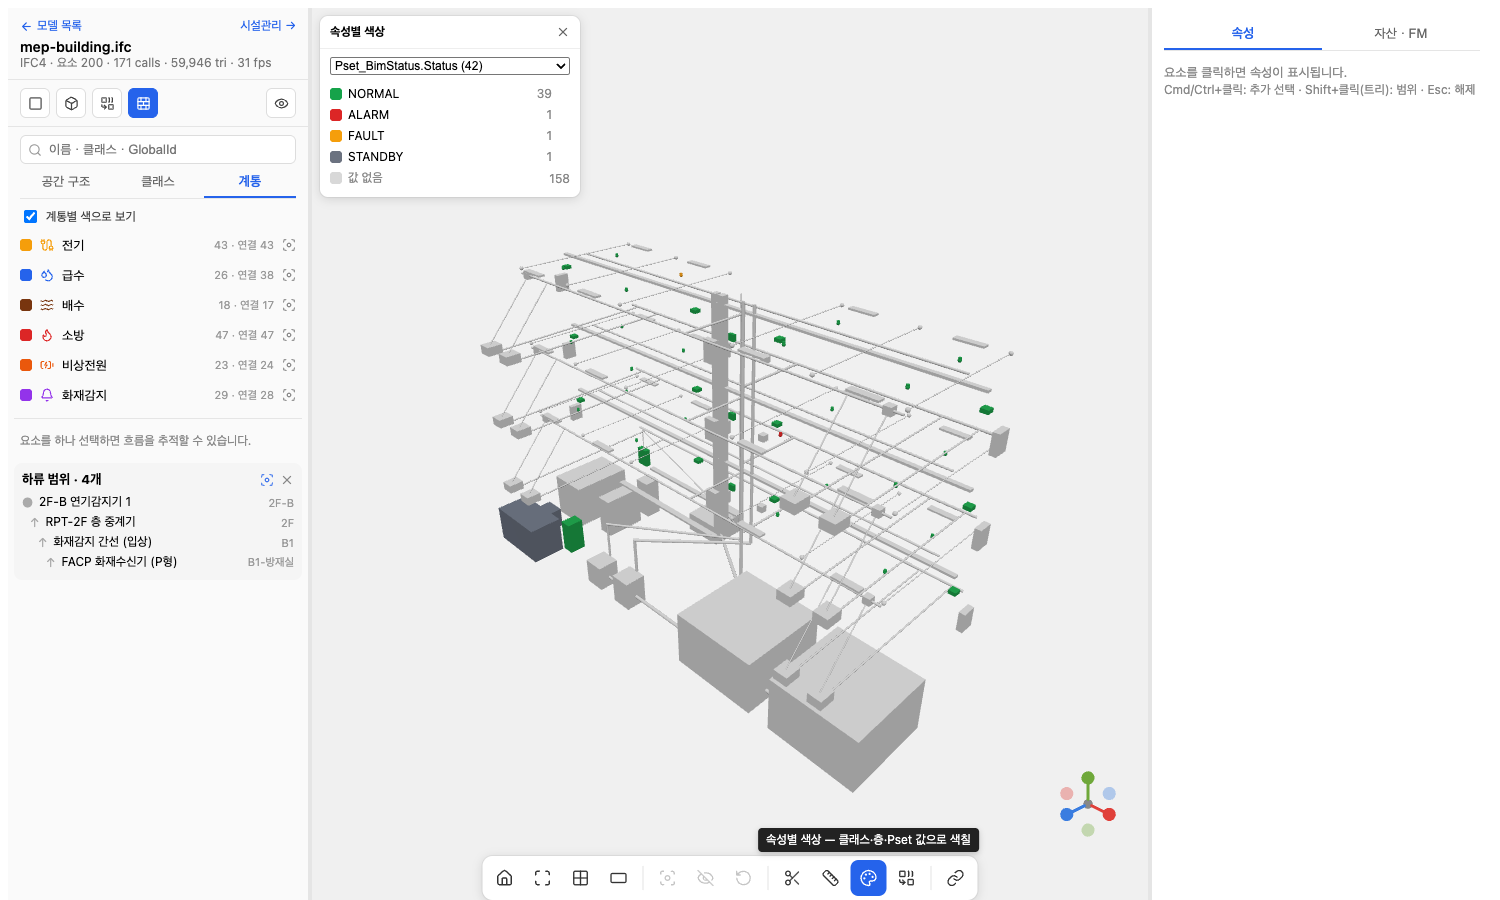
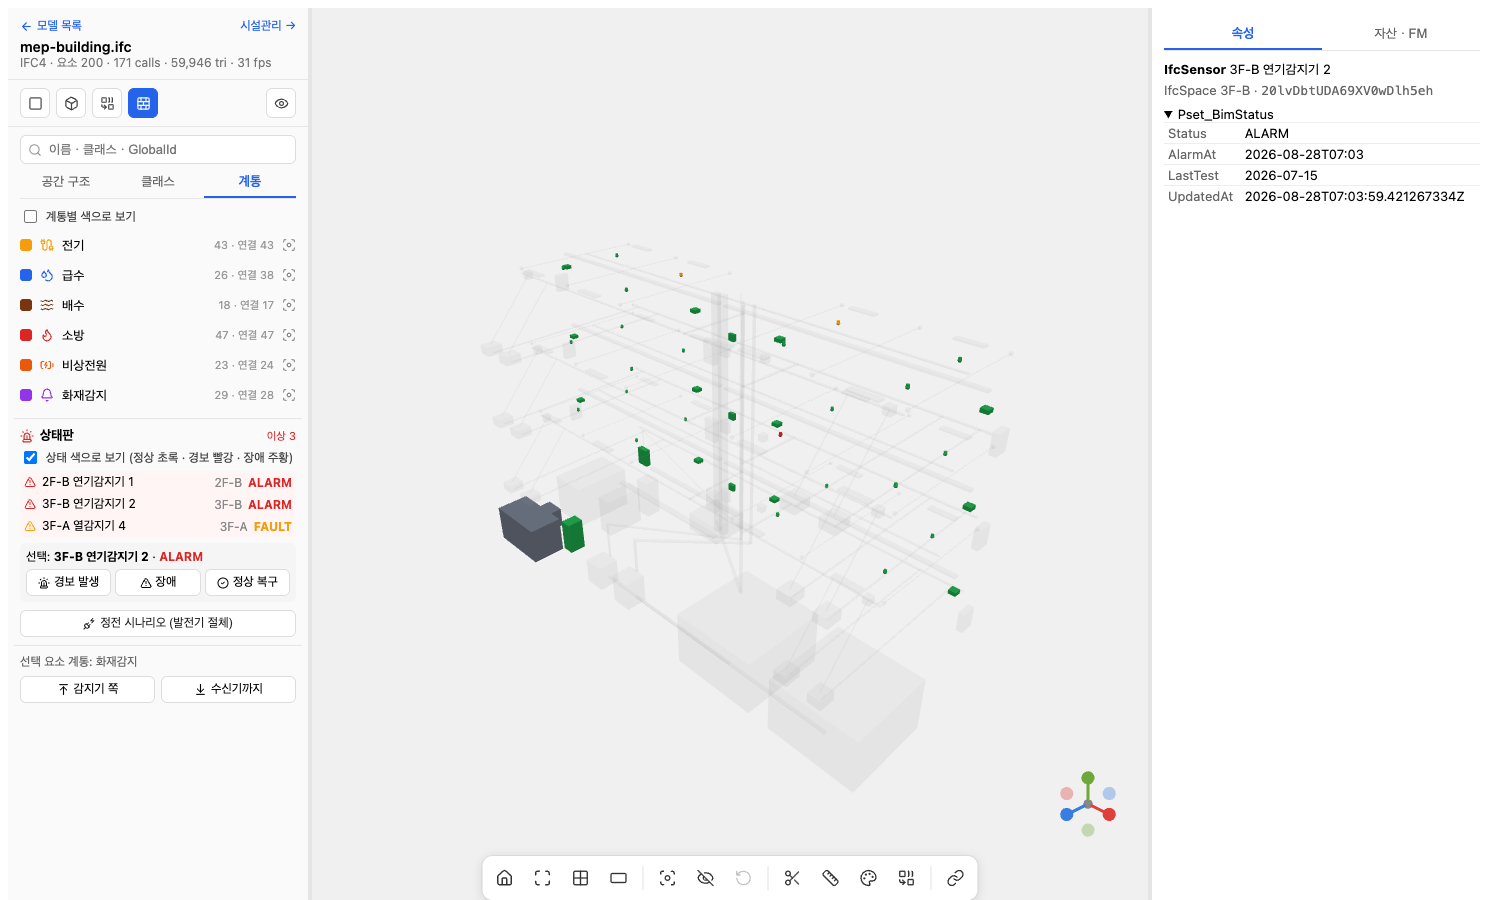
M6 상태·정전: StatusController(Pset_BimStatus jsonb 병합, 수신기 ActiveAlarms/Faults 집계, 자산이면 작업지시 자동, /power 정전 시나리오 = MDB 하류 ∖ EMDB 하류), 뷰어 상태판(이상 목록·상태 색·경보/장애/복구·정전 토글), 문서

diff --git a/web/src/viewer/SystemPanel.tsx b/web/src/viewer/SystemPanel.tsx
@@ -1,6 +1,6 @@
 import { useEffect, useMemo, useState } from 'react'
-import { ArrowDownToLine, ArrowUpToLine, BatteryCharging, Bell, Cable, Droplets, Flame, Focus, Waves, X, type LucideIcon } from 'lucide-react'
-import { api, type Route, type System, type SystemMember } from '../api'
+import { AlertTriangle, ArrowDownToLine, ArrowUpToLine, BatteryCharging, Bell, Cable, CheckCircle2, Droplets, Flame, Focus, PlugZap, Siren, Waves, X, type LucideIcon } from 'lucide-react'
+import { api, post, type PowerResult, type Route, type StatusRow, type System, type SystemMember } from '../api'
 
 /** 계통별 색 (ColorPanel 팔레트와 별개로 의미색 고정) */
 export const SYSTEM_COLOR: Record<string, number> = { ELECTRICAL: 0xf59e0b, DOMESTICCOLDWATER: 0x2563eb, WASTEWATER: 0x78350f, FIREPROTECTION: 0xdc2626, SIGNAL: 0x9333ea, 비상전원: 0xea580c, 화재감지: 0x9333ea }
@@ -9,12 +9,17 @@ const SYSTEM_ICON: Record<string, LucideIcon> = { ELECTRICAL: Cable, DOMESTICCOL
 const hex = (n: number) => '#' + n.toString(16).padStart(6, '0')
 
 /** 좌측 "계통" 탭: 계통 목록(색·멤버 수·솔로), 선택 요소의 상류/하류 추적 */
-export default function SystemPanel({ modelId, selection, members, setMembers, route, setRoute, onSolo, onSelect, colorMode, setColorMode }: {
+export const STATUS_COLOR: Record<string, number> = { NORMAL: 0x16a34a, STANDBY: 0x6b7280, RUNNING: 0x16a34a, TRANSFERRED: 0xea580c, ALARM: 0xdc2626, FAULT: 0xf59e0b }
+
+export default function SystemPanel({ modelId, selection, members, setMembers, route, setRoute, onSolo, onSelect, colorMode, setColorMode, statusRows, reloadStatus, power, setPower, statusView, setStatusView }: {
   modelId: string; selection: string[]
   members: Map<number, SystemMember[]>; setMembers: (m: Map<number, SystemMember[]>) => void
   route?: Route; setRoute: (r?: Route) => void
   onSolo: (label: string, gids: string[], key: string) => void; onSelect: (gids: string[]) => void
   colorMode: boolean; setColorMode: (b: boolean) => void
+  statusRows: StatusRow[]; reloadStatus: () => Promise<unknown>
+  power?: PowerResult; setPower: (p?: PowerResult) => void
+  statusView: boolean; setStatusView: (b: boolean) => void
 }) {
   const [systems, setSystems] = useState<System[]>([])
   const [busy, setBusy] = useState(false)
@@ -44,6 +49,8 @@ export default function SystemPanel({ modelId, selection, members, setMembers, r
         </div>) })}
 
       <div style={{ borderTop: '1px solid #e5e5e5', margin: '8px 0' }} />
+      <StatusBoard rows={statusRows} modelId={modelId} gid={gid} reload={reloadStatus} onSelect={onSelect} statusView={statusView} setStatusView={setStatusView} power={power} setPower={setPower} />
+      <div style={{ borderTop: '1px solid #e5e5e5', margin: '8px 0' }} />
       {!gid && <div style={{ color: '#888', fontSize: 12, padding: 6 }}>요소를 하나 선택하면 흐름을 추적할 수 있습니다.</div>}
       {gid && <>
         <div style={{ fontSize: 12, color: '#666', padding: '0 6px 6px' }}>선택 요소 계통: {inSystems.length ? inSystems.map(s => s.name).join(', ') : '없음'}</div>
@@ -64,6 +71,46 @@ export default function SystemPanel({ modelId, selection, members, setMembers, r
           : Object.entries(groupBy(route.nodes, n => n.ifcClass)).map(([cls, ns]) => <div key={cls} style={{ display: 'flex', gap: 6, fontSize: 12, padding: '2px 0', cursor: 'pointer' }} onClick={() => onSelect(ns.map(n => n.globalId))}>
               <span style={{ flex: 1 }}>{cls.replace('Ifc', '')}</span><span style={{ color: '#888' }}>{ns.length}</span></div>)}
       </div>}
+    </div>
+  )
+}
+
+/** 상태판: ALARM/FAULT 목록, 선택 요소 경보/복구 시뮬레이션, 정전/복전 */
+function StatusBoard({ rows, modelId, gid, reload, onSelect, statusView, setStatusView, power, setPower }: {
+  rows: StatusRow[]; modelId: string; gid?: string; reload: () => Promise<unknown>; onSelect: (g: string[]) => void
+  statusView: boolean; setStatusView: (b: boolean) => void; power?: PowerResult; setPower: (p?: PowerResult) => void
+}) {
+  const [busy, setBusy] = useState(false); const [msg, setMsg] = useState<string>()
+  const abnormal = rows.filter(r => r.status.Status === 'ALARM' || r.status.Status === 'FAULT')
+  const sel = gid ? rows.find(r => r.globalId === gid) : undefined
+  const setStatus = (Status: string) => { if (!gid) return; setBusy(true); setMsg(undefined)
+    post(`/models/${modelId}/elements/${encodeURIComponent(gid)}/status`, Status === 'ALARM' ? { Status, AlarmAt: new Date().toISOString().slice(0, 16) } : { Status }, 'PATCH')
+      .then(r => { if (r.workOrder) setMsg(`작업지시 자동 생성 (${r.workOrder.assetTag})`) }).then(reload).catch(e => setMsg(e.message)).finally(() => setBusy(false)) }
+  const togglePower = () => { setBusy(true); post(`/models/${modelId}/power?source=${power?.source === 'GENERATOR' ? 'UTILITY' : 'GENERATOR'}`, {}).then((p: PowerResult) => setPower(p.source === 'GENERATOR' ? p : undefined)).then(reload).finally(() => setBusy(false)) }
+  return (
+    <div style={{ padding: '0 6px' }}>
+      <div style={{ display: 'flex', alignItems: 'center', gap: 6, marginBottom: 4 }}>
+        <Siren size={14} style={{ color: abnormal.length ? '#dc2626' : '#16a34a' }} />
+        <b style={{ flex: 1 }}>상태판</b>
+        <span style={{ fontSize: 11, color: abnormal.length ? '#dc2626' : '#16a34a' }}>{abnormal.length ? `이상 ${abnormal.length}` : '전부 정상'}</span>
+      </div>
+      <label style={{ display: 'flex', alignItems: 'center', gap: 6, fontSize: 12, color: '#444', marginBottom: 4 }}>
+        <input type="checkbox" checked={statusView} onChange={e => setStatusView(e.target.checked)} /> 상태 색으로 보기 (정상 초록 · 경보 빨강 · 장애 주황)</label>
+      {abnormal.map(r => <div key={r.globalId} onClick={() => onSelect([r.globalId])} style={{ display: 'flex', alignItems: 'center', gap: 6, fontSize: 12, padding: '3px 4px', cursor: 'pointer', borderRadius: 4, background: '#fff5f5' }}>
+        <AlertTriangle size={12} style={{ color: r.status.Status === 'ALARM' ? '#dc2626' : '#f59e0b' }} />
+        <span style={{ flex: 1, overflow: 'hidden', textOverflow: 'ellipsis', whiteSpace: 'nowrap' }}>{r.name}</span>
+        <span style={{ color: '#888' }}>{r.spatialName}</span><b style={{ color: r.status.Status === 'ALARM' ? '#dc2626' : '#f59e0b' }}>{r.status.Status}</b></div>)}
+      {sel && <div style={{ marginTop: 6, padding: 6, background: '#f5f5f5', borderRadius: 6, fontSize: 12 }}>
+        <div style={{ marginBottom: 4 }}>선택: <b>{sel.name}</b> · <b style={{ color: '#' + (STATUS_COLOR[sel.status.Status ?? ''] ?? 0x444444).toString(16).padStart(6, '0') }}>{sel.status.Status}</b></div>
+        <div style={{ display: 'flex', gap: 4 }}>
+          {sel.ifcClass === 'IfcSensor' && <button disabled={busy} onClick={() => setStatus('ALARM')} style={btn}><Siren size={12} /> 경보 발생</button>}
+          <button disabled={busy} onClick={() => setStatus('FAULT')} style={btn}><AlertTriangle size={12} /> 장애</button>
+          <button disabled={busy} onClick={() => setStatus('NORMAL')} style={btn}><CheckCircle2 size={12} /> 정상 복구</button>
+        </div>
+        {msg && <div style={{ color: '#2563eb', marginTop: 4 }}>{msg}</div>}
+      </div>}
+      <button disabled={busy} onClick={togglePower} style={{ ...btn, marginTop: 8, width: '100%', background: power ? '#fff7ed' : '#fff', borderColor: power ? '#f59e0b' : '#ddd', color: power ? '#9a3412' : '#222' }}>
+        <PlugZap size={13} /> {power ? `정전 중 — 비상발전 운전 (무전원 ${power.unpowered.length}) · 클릭하면 복전` : '정전 시나리오 (발전기 절체)'}</button>
     </div>
   )
 }

diff --git a/web/src/viewer/Viewer.tsx b/web/src/viewer/Viewer.tsx
@@ -2,8 +2,8 @@ import { useEffect, useMemo, useRef, useState } from 'react'
 import type React from 'react'
 import { Group, Panel, Separator } from 'react-resizable-panels'
 import { Check, Combine, Copy, Eye, Palette, Ruler, Trash2, X, XCircle, EyeOff, Focus, Grid2x2, Home, Link, Maximize, RectangleHorizontal, RotateCcw, Scissors, type LucideIcon } from 'lucide-react'
-import { api, type Asset, type ElementDetail, type ElementRow, type Model, type Route, type SpatialNode, type SystemMember, type Viewpoint, type WorkOrder } from '../api'
-import SystemPanel, { systemColor } from './SystemPanel'
+import { api, type Asset, type ElementDetail, type ElementRow, type Model, type PowerResult, type Route, type SpatialNode, type StatusRow, type SystemMember, type Viewpoint, type WorkOrder } from '../api'
+import SystemPanel, { STATUS_COLOR, systemColor } from './SystemPanel'
 import { StatusBadge, day } from './FmPanel'
 import FmPanel from './FmPanel'
 import { Scene3D, type Kind, type Stats, type View } from './scene'
@@ -38,16 +38,23 @@ export default function Viewer({ modelId }: { modelId: string }) {
   const [sysColor, setSysColor] = useState(false)     // 계통별 색
   const [route, setRoute] = useState<Route>()          // 추적 결과
   const [systemsMeta, setSystemsMeta] = useState<{ id: number; name: string; predefinedType: string | null }[]>([])
+  const [statusRows, setStatusRows] = useState<StatusRow[]>([])
+  const [power, setPower] = useState<PowerResult>()
+  const [statusView, setStatusView] = useState(false)
+  const reloadStatus = () => api(`/models/${modelId}/status`).then(setStatusRows).catch(() => setStatusRows([]))
+  useEffect(() => { reloadStatus() }, [modelId])
   useEffect(() => { api(`/models/${modelId}/systems`).then(setSystemsMeta).catch(() => setSystemsMeta([])) }, [modelId])
   // 계통별 색: 멤버 → 계통 색. 경로 추적 중이면 경로만 진하게, 나머지 회색 (setColors 의 기본 회색)
   useEffect(() => {
     const s = scene.current; if (!s) return
     if (route) { const m = new Map<string, number>(); for (const n of route.nodes) m.set(n.globalId, n.depth === 0 ? 0xffaa00 : route.direction === 'up' ? 0x2563eb : 0x16a34a); s.setColors(m, true); return }
+    if (power) { const m = new Map<string, number>(); for (const g of power.powered) m.set(g, 0x16a34a); for (const g of power.unpowered) m.set(g, 0x374151); s.setColors(m, true); return }
+    if (statusView) { const m = new Map<string, number>(); for (const r of statusRows) m.set(r.globalId, STATUS_COLOR[r.status.Status ?? ''] ?? 0x888888); s.setColors(m, true); return }
     if (!sysColor || colorMode) { if (!colorMode) s.setColors(undefined); return }
     const m = new Map<string, number>()
     for (const sm of systemsMeta) for (const e of sysMembers.get(sm.id) ?? []) m.set(e.globalId, systemColor(sm))
     s.setColors(m, true)   // 구조체는 반투명 — 계통이 건물 안에서 보이게
-  }, [sysColor, sysMembers, systemsMeta, route, colorMode, bounds])
+  }, [sysColor, sysMembers, systemsMeta, route, colorMode, bounds, power, statusView, statusRows])
   const [menu, setMenu] = useState<{ x: number; y: number }>()
   const [tab, setTab] = useState<'props' | 'fm'>(() => new URLSearchParams(location.hash.split('?')[1] ?? '').has('fm') || new URLSearchParams(location.hash.split('?')[1] ?? '').has('wo') ? 'fm' : 'props')
   const [wo, setWo] = useState<WorkOrder>()   // ?wo= 로 열었을 때 상단 배너
@@ -122,7 +129,7 @@ export default function Viewer({ modelId }: { modelId: string }) {
     } else setDetail(undefined)
     if (selection.length > 1) Promise.all(selection.filter(g => byGid.has(g)).slice(0, 20).map(fetch1)).then(setDetails).catch(() => setDetails([]))
     else setDetails([])
-  }, [selection, byGid, spaceGids, modelId])
+  }, [selection, byGid, spaceGids, modelId, statusRows])
   useEffect(() => { scene.current?.setMerged(opts.merged) }, [opts.merged])
   useEffect(() => { scene.current?.setClipBox(clip) }, [clip, bounds])
   useEffect(() => { if (scene.current) scene.current.measuring = measuring }, [measuring])
@@ -178,7 +185,8 @@ export default function Viewer({ modelId }: { modelId: string }) {
         <LeftPanel model={model} stats={stats} spatial={spatial} elements={elements} hidden={hidden} setHidden={setHidden} opts={opts} setOpts={setOpts} selected={selSet} onSelect={onSelect} onContext={onContext}
           systemPanel={<SystemPanel modelId={modelId} selection={selection} members={sysMembers} setMembers={setSysMembers} route={route} setRoute={setRoute}
             onSolo={(label, gids, key) => setHidden({ ...hidden, solo: hidden.solo?.key === key ? undefined : { key, label, gids: new Set(gids) } })}
-            onSelect={gids => scene.current?.select(gids)} colorMode={sysColor} setColorMode={setSysColor} />} />
+            onSelect={gids => scene.current?.select(gids)} colorMode={sysColor} setColorMode={setSysColor}
+            statusRows={statusRows} reloadStatus={reloadStatus} power={power} setPower={setPower} statusView={statusView} setStatusView={setStatusView} />} />
       </Panel>
       <Separator style={sep} />
 

diff --git a/web/src/api.ts b/web/src/api.ts
@@ -24,3 +24,5 @@ export type System = { id: number; globalId: string; name: string; predefinedTyp
 export type SystemMember = ElementRow & { spatialName: string | null; upstream: number; downstream: number }
 export type RouteNode = { globalId: string; ifcClass: string; name: string | null; depth: number; spatialName: string | null; via: string | null }
 export type Route = { globalId: string; direction: 'up' | 'down'; systems: string[]; nodes: RouteNode[] }
+export type StatusRow = { globalId: string; ifcClass: string; name: string | null; spatialName: string | null; status: Record<string, unknown> & { Status?: string } }
+export type PowerResult = { source: 'UTILITY' | 'GENERATOR'; powered: string[]; unpowered: string[] }

diff --git a/api/src/main/java/com/bim/api/StatusController.java b/api/src/main/java/com/bim/api/StatusController.java
@@ -1,0 +1,97 @@
+package com.bim.api;
+
+import java.time.OffsetDateTime;
+import java.util.List;
+import java.util.Map;
+import java.util.UUID;
+import org.springframework.jdbc.core.simple.JdbcClient;
+import org.springframework.transaction.support.TransactionTemplate;
+import org.springframework.web.bind.annotation.*;
+import tools.jackson.databind.ObjectMapper;
+
+/** 런타임 상태(M6): Pset_BimStatus 를 jsonb 병합으로 갱신. IFC 는 설계 정보라 상태 자리가 없고, 운영에선 BMS/수신기 값이 여기로 들어온다.
+ *  재변환 시 IFC 값으로 초기화됨 (의도: 상태는 IFC 가 아니라 운영 시스템의 것). */
+@RestController
+@RequestMapping("/api/models/{id}")
+class StatusController {
+	private final JdbcClient db;
+	private final TransactionTemplate tx;
+	private static final ObjectMapper JSON = new ObjectMapper();
+	StatusController(JdbcClient db, TransactionTemplate tx) { this.db = db; this.tx = tx; }
+
+	/** 상태 병합. Status 가 ALARM/FAULT 로 바뀌고 요소가 자산이면 작업지시 자동 생성, 수신기 ActiveAlarms/Faults 재계산 */
+	@PatchMapping("/elements/{globalId}/status")
+	Map<String, Object> patch(@PathVariable UUID id, @PathVariable String globalId, @RequestBody Map<String, Object> patch) {
+		var p = new java.util.HashMap<>(patch); p.put("UpdatedAt", OffsetDateTime.now().toString());
+		return tx.execute(st -> {
+			int n = db.sql("""
+				UPDATE element SET properties = jsonb_set(properties, '{Pset_BimStatus}', coalesce(properties->'Pset_BimStatus', '{}'::jsonb) || :p::jsonb)
+				 WHERE model_id = :id AND global_id = :gid""").param("id", id).param("gid", globalId).param("p", JSON.writeValueAsString(p)).update();
+			if (n == 0) throw new ProjectController.NotFound("element " + globalId);
+			// 수신기 집계: 모델 안의 ALARM/FAULT 감지기 수
+			db.sql("""
+				UPDATE element SET properties = jsonb_set(properties, '{Pset_BimStatus}', (properties->'Pset_BimStatus') || jsonb_build_object(
+				  'ActiveAlarms', (SELECT count(*) FROM element s WHERE s.model_id = :id AND s.ifc_class = 'IfcSensor' AND s.properties->'Pset_BimStatus'->>'Status' = 'ALARM'),
+				  'Faults',       (SELECT count(*) FROM element s WHERE s.model_id = :id AND s.ifc_class = 'IfcSensor' AND s.properties->'Pset_BimStatus'->>'Status' = 'FAULT')))
+				 WHERE model_id = :id AND ifc_class = 'IfcUnitaryControlElement' AND name LIKE 'FACP%'""").param("id", id).update();
+			String status = String.valueOf(patch.get("Status"));
+			Map<String, Object> wo = null;
+			if (status.equals("ALARM") || status.equals("FAULT")) {   // 자산이면 작업지시
+				var asset = db.sql("SELECT a.id, a.tag FROM asset a JOIN element e ON e.id = a.element_id WHERE e.model_id = :id AND e.global_id = :gid")
+					.param("id", id).param("gid", globalId).query().listOfRows().stream().findFirst().orElse(null);
+				if (asset != null) {
+					var name = db.sql("SELECT name FROM element WHERE model_id = :id AND global_id = :gid").param("id", id).param("gid", globalId).query(String.class).single();
+					UUID wid = db.sql("""
+						INSERT INTO work_order (asset_id, title, viewpoint) VALUES (:a, :t, :v::jsonb) RETURNING id""")
+						.param("a", asset.get("id")).param("t", (status.equals("ALARM") ? "경보 확인: " : "장애 점검: ") + name)
+						.param("v", JSON.writeValueAsString(Map.of("sel", List.of(globalId)))).query(UUID.class).single();
+					wo = Map.of("id", wid, "assetTag", asset.get("tag"));
+				}
+			}
+			var el = db.sql("SELECT global_id \"globalId\", name, properties->'Pset_BimStatus' AS s FROM element WHERE model_id = :id AND global_id = :gid")
+				.param("id", id).param("gid", globalId).query().listOfRows().getFirst();
+			var out = new java.util.HashMap<String, Object>(Map.of("globalId", el.get("globalId"), "name", el.get("name"), "status", Json.parse(el.get("s").toString())));
+			if (wo != null) out.put("workOrder", wo);
+			return out;
+		});
+	}
+
+	/** 상태 있는 요소 목록 (상태판) */
+	@GetMapping("/status")
+	List<Map<String, Object>> list(@PathVariable UUID id) {
+		return db.sql("""
+			SELECT e.global_id "globalId", e.ifc_class "ifcClass", e.name, sn.name "spatialName", (e.properties->'Pset_BimStatus')::text s
+			  FROM element e LEFT JOIN spatial_node sn ON sn.id = e.spatial_node_id
+			 WHERE e.model_id = :id AND jsonb_exists(e.properties, 'Pset_BimStatus')   -- '?' 연산자는 JDBC 플레이스홀더와 충돌
+			 ORDER BY CASE e.properties->'Pset_BimStatus'->>'Status' WHEN 'ALARM' THEN 0 WHEN 'FAULT' THEN 1 ELSE 2 END, e.name""")
+			.param("id", id).query().listOfRows().stream().map(r -> { r.put("status", Json.parse((String) r.remove("s"))); return r; }).toList();
+	}
+
+	/** 정전 시나리오: source=UTILITY(한전) | GENERATOR(발전기). ATS·발전기 상태를 바꾸고, 전원 있는/없는 요소를 흐름 그래프로 계산.
+	 *  한전: MDB 하류 전부 + EMDB 하류. 발전기: EMDB 하류만 (MDB 하류 중 비상 아닌 것은 무전원). */
+	@PostMapping("/power")
+	Map<String, Object> power(@PathVariable UUID id, @RequestParam String source) {
+		boolean gen = source.equals("GENERATOR");
+		if (!gen && !source.equals("UTILITY")) throw new ProjectController.BadRequest("source=UTILITY|GENERATOR");
+		set(id, "IfcSwitchingDevice", Map.of("Status", gen ? "TRANSFERRED" : "NORMAL", "Source", source));
+		set(id, "IfcElectricGenerator", Map.of("Status", gen ? "RUNNING" : "STANDBY"));
+		List<String> normal = downstream(id, "MDB%"), emergency = downstream(id, "EMDB%");
+		List<String> powered = gen ? emergency : java.util.stream.Stream.concat(normal.stream(), emergency.stream()).distinct().toList();
+		List<String> unpowered = gen ? normal.stream().filter(g -> !emergency.contains(g)).toList() : List.of();
+		return Map.of("source", source, "powered", powered, "unpowered", unpowered);
+	}
+
+	private void set(UUID id, String cls, Map<String, Object> patch) {
+		db.sql("UPDATE element SET properties = jsonb_set(properties, '{Pset_BimStatus}', coalesce(properties->'Pset_BimStatus', '{}'::jsonb) || :p::jsonb) WHERE model_id = :id AND ifc_class = :c")
+			.param("id", id).param("c", cls).param("p", JSON.writeValueAsString(patch)).update();
+	}
+
+	private List<String> downstream(UUID id, String namePattern) {
+		return db.sql("""
+			WITH RECURSIVE r AS (
+			  SELECT e.id, ARRAY[e.id] path FROM element e WHERE e.model_id = :id AND e.name LIKE :n
+			  UNION ALL
+			  SELECT e.id, r.path || e.id FROM r JOIN connection c ON c.from_element_id = r.id JOIN element e ON e.id = c.to_element_id WHERE NOT e.id = ANY(r.path))
+			SELECT DISTINCT e.global_id FROM r JOIN element e ON e.id = r.id""").param("id", id).param("n", namePattern).query(String.class).list();
+	}
+}

diff --git a/docs/study/mep-systems.md b/docs/study/mep-systems.md
@@ -57,6 +57,23 @@ SELECT DISTINCT ON (id) ... ORDER BY id, depth
 - 요소 하나 선택 → 상류/하류. 경로는 파랑(상류)/초록(하류), 선택 요소 주황, 나머지 반투명. "경로만 보기" 는 솔로 모델 재사용.
 - 층·구역 필터(트리 눈/솔로)와 조합: "2F-B 구역 소방" = 트리에서 2F-B 솔로 + 계통 색.
 
+## 런타임 상태 — IFC 밖의 것을 IFC 위에 얹기
+
+`Pset_BimStatus` 는 IFC 파일에 초기값으로 있지만 **운영 중엔 API 가 바꾼다**: `PATCH /models/{id}/elements/{gid}/status` 가 jsonb 를 병합(`||`)한다. 별도 테이블을 안 둔 이유 — 속성 패널·색상 모드·검색이 전부 `element.properties` 를 읽으므로 같은 자리에 두면 아무것도 안 바꿔도 된다. 대가: 재변환하면 IFC 값으로 초기화. 상태는 본래 BMS/수신기의 것이지 IFC 의 것이 아니므로 맞는 방향(운영에선 연동 배치가 다시 채운다).
+
+부수효과 두 가지가 "관계" 를 만든다:
+- 감지기 ALARM/FAULT → 수신기 `ActiveAlarms/Faults` 재계산(모델 단위 집계 쿼리).
+- 이상 상태 요소가 **자산이면 작업지시 자동 생성**(제목 "경보 확인: …", viewpoint 에 선택 요소) → FM 보드에 바로 뜬다. 상태(BMS) → 자산(FMS) → 작업지시 가 한 줄로 이어지는 지점.
+
+## 정전 시나리오 = 그래프 차집합
+
+`POST /models/{id}/power?source=GENERATOR`:
+1. ATS `Source=GENERATOR, Status=TRANSFERRED`, 발전기 `Status=RUNNING`
+2. 전원 있음 = EMDB 하류(재귀 CTE), 전원 없음 = MDB 하류 ∖ EMDB 하류
+3. 뷰어가 초록/짙은 회색으로 칠한다 — 어느 조명·분전반이 죽는지, 소화펌프·수신기·비상조명이 살아있는지가 한눈에.
+
+`source=UTILITY` 로 복전. 계통 데이터(connection)만으로 "무엇이 영향받나" 가 나오는 게 핵심 — 정전뿐 아니라 밸브 잠금·차단기 트립도 같은 계산(하류 차집합)이다.
+
 ## FM 시나리오
 
 1. 3층 B구역 조명 고장 신고 → 조명 선택 → 상류 → `LP-3F-B 구역 분전반` 부터 확인, 그래도 안 되면 `LP-3F` → `MDB`.

diff --git a/README.md b/README.md
@@ -66,9 +66,10 @@ curl -X POST localhost:8080/api/models/<id>/retry                               
 
 ![M6 계통별 색](docs/images/m6-systems.png)
 ![M6 계통 추적](docs/images/m6-route.png)
-![M6 상태](docs/images/m6-status.png)
+![M6 상태판](docs/images/m6-status.png)
+![M6 정전 시나리오](docs/images/m6-blackout.png)
 
-`samples/mep-building.ifc` — `samples/gen/gen_mep.py` 로 만든 가상 업무동(지하 변전실·펌프실·수조 + 3개 층, 층별 A/B 구역). 전기·급수·배수·소방·비상전원·화재감지 6계통을 IfcDistributionSystem 과 흐름 연결로 넣었고, 감지기·발전기엔 상태(`Pset_BimStatus`)가 있다. 뷰어 "계통" 탭에서 계통별 색, 요소 선택 → **상류(원천까지) / 하류(말단까지)** 추적.
+`samples/mep-building.ifc` — `samples/gen/gen_mep.py` 로 만든 가상 업무동(지하 변전실·펌프실·수조 + 3개 층, 층별 A/B 구역). 전기·급수·배수·소방·비상전원·화재감지 6계통을 IfcDistributionSystem 과 흐름 연결로 넣었고, 감지기·발전기엔 상태(`Pset_BimStatus`)가 있다. 뷰어 "계통" 탭에서 계통별 색, 요소 선택 → **상류(원천까지) / 하류(말단까지)** 추적, **상태판**(경보/장애 목록, API 로 상태 갱신 → 수신기 집계·작업지시 자동), **정전 시나리오**(발전기 절체 시 전원 있음/없음을 흐름 그래프로 계산).
 
 ### 지도 (M3)
 

diff --git a/docs/01-architecture.md b/docs/01-architecture.md
@@ -116,6 +116,8 @@ src/
 | GET/PATCH | `/api/work-orders/{id}` | 상세 / 상태·담당·기한 변경 |
 | GET | `/api/models/{id}/systems` · `/systems/{sid}/elements` | 설비 계통 목록·멤버 |
 | GET | `/api/models/{id}/elements/{globalId}/route?dir=up\|down` | 흐름 추적 (재귀 CTE, 원천까지 / 말단까지) |
+| GET/PATCH | `/api/models/{id}/status` · `/elements/{globalId}/status` | 런타임 상태(Pset_BimStatus jsonb 병합, 수신기 집계, 자산이면 작업지시 자동) |
+| POST | `/api/models/{id}/power?source=UTILITY\|GENERATOR` | 정전 시나리오: ATS/발전기 상태 + 전원 있음/없음 집합 |
 
 ## glb ↔ 요소 매핑
 
